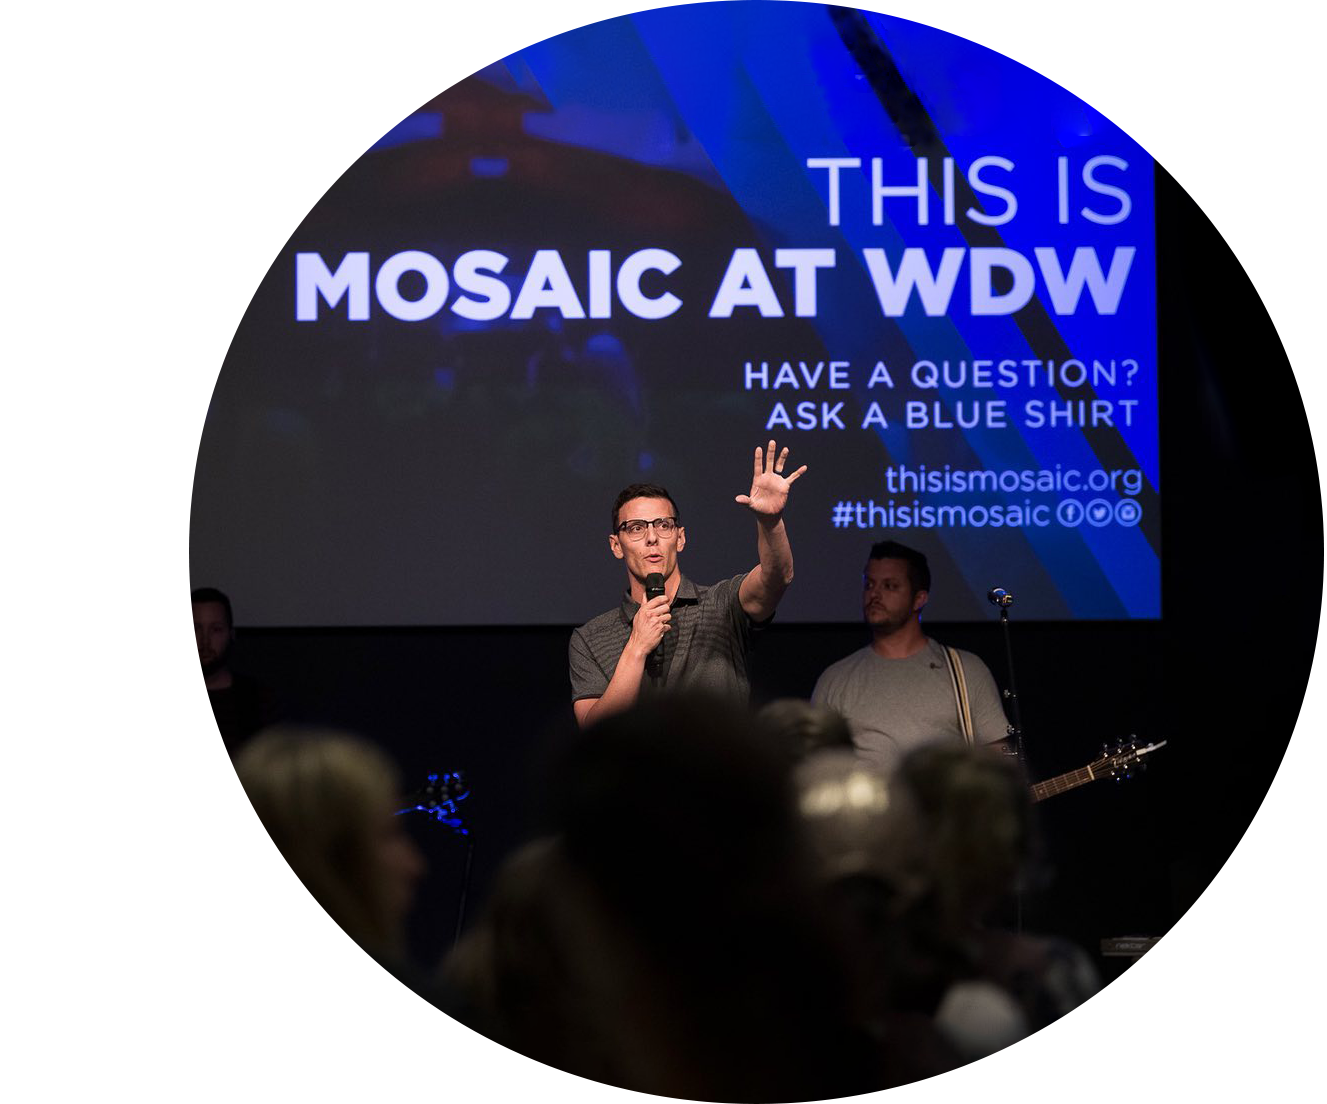
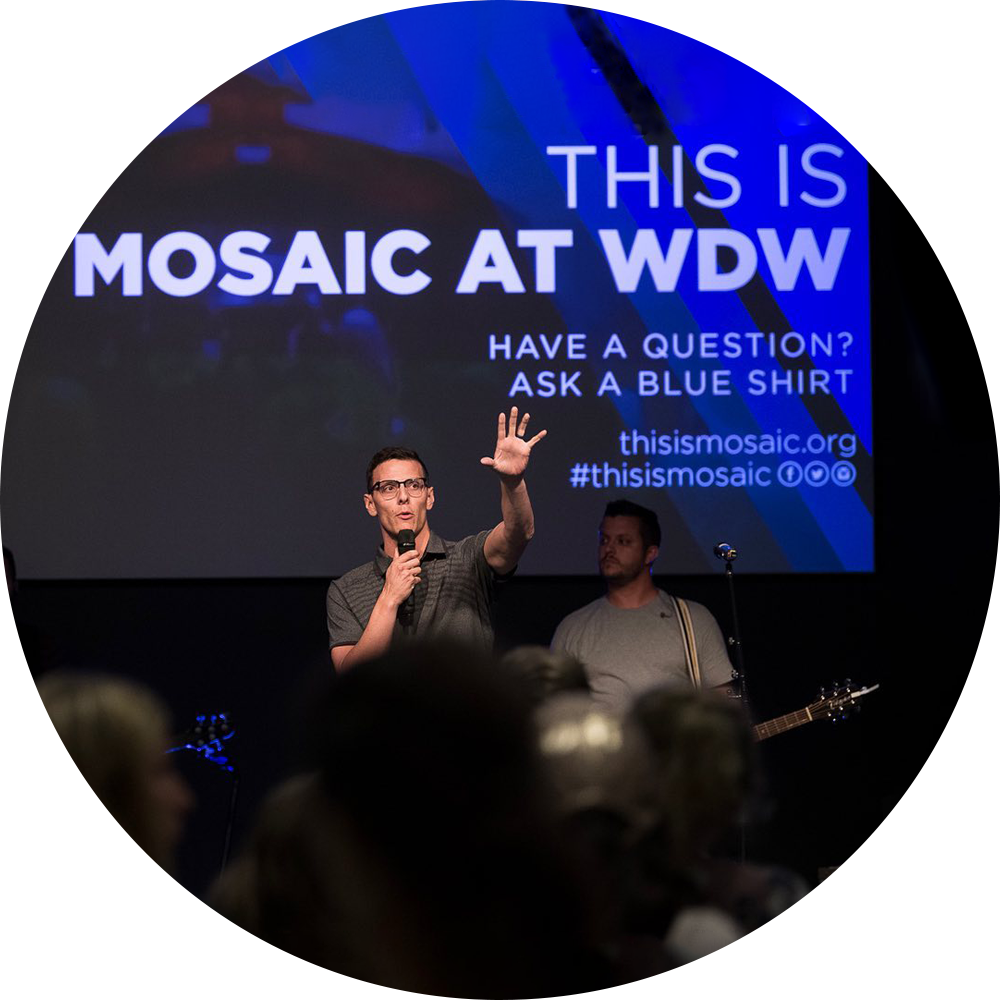
fixed alignment of circles on index and about

diff --git a/css/style.css b/css/style.css
@@ -9,14 +9,17 @@
   border: 0;
   font-family: 'GothamBook', sans-serif;
 }
+
 @font-face {
   font-family: "GothamBold";
   src: url('../font/GothamBold.ttf') format('truetype')
 }
+
 @font-face {
   font-family: "GothamBook";
   src: url('../font/GothamBook.ttf') format('truetype')
 }
+
 @font-face {
   font-family: "Capetown";
   src: url('../font/Capetown.otf') format('opentype')
@@ -38,7 +41,6 @@ nav a {
   padding: 5px;
   border-radius: 5px;
   border-top: 10px gray;
-
 }
 
 header{
@@ -46,7 +48,6 @@ header{
   background: #398298;
   padding: 25px 0;
   position:fixed;
-  text-align: center;
   margin: 0 0 0 0;
   width: 100%;
   z-index: 999;
@@ -86,8 +87,9 @@ footer{
 
 *=========================================================*/
 main {
-  padding-top: 250px;
-  margin: auto;
+  padding-top: 200px;
+  margin: auto 0;
+  max-width: 900px;
 }
 /*===============================
 
@@ -96,20 +98,23 @@ main {
 *===============================*/
 .top_main{
   position: relative;
+  max-width: 900px;
+  margin: auto 0;
 }
+
 .index_hero{
   display:block;
   margin: auto;
 }
+
 .index_copy{
   font-size: 12px;
   line-height: 14px;
   margin-top: 40px;
-  margin-left: auto;
-  margin-right: auto;
   padding: 20px;
   background: white;
-  max-width: 900px;
+  width: 700px;
+  margin: 50px 75px;
   position: absolute;
   display: block;
 }
@@ -121,32 +126,22 @@ main {
 *===============================*/
 .bottom_main{
   position: relative;
-  margin-top: 100px;
-  margin-right: auto;
-  margin-left: auto;
-}
-
-.bottom_images{
-  position:relative;
-  padding-top: 40px;
-  max-width: 90%;
-  margin: auto;
-}
-.bottom_image{
-  padding: 25px;
-  margin:auto;
-  max-width: 80%;
+  margin-top: 200px;
+  margin-left: 75px;
+  max-width: 81%;
+  text-align: center;
 }
 
 .bottom_texts{
   display: block;
-  margin-left: auto;
-  margin-right: auto;
+  max-width: 900px;
+  margin: auto 0;
   position: relative;
 }
+
 .bottom_text{
-  display: inline-block;
-  width: 275px;
+  display:inline-block;
+  width:18%;
   background: white;
   padding: 15px;
   margin: 20px;
@@ -174,35 +169,79 @@ p{
   font-size: 12px;
   line-height: 14px;
 }
+
+.bottom_images{
+  position:relative;
+  padding-top: 40px;
+  max-width: 90%;
+  margin: auto;
+}
+
+.bottom_image{
+  padding: 0 25px;
+  max-width: 21%;
+  width: 100%;
+}
 /*============================================================
 
   About Styling
 
 *=========================================================*/
+.about_main{
+  max-width: 900px;
+  margin: 0 auto;
+}
 
 .about_toptext{
   display: inline-block;
   width: 275px;
   background: white;
-  padding: 15px;
-  margin: 20px;
+  padding: 20px 20px 20px 100px;
+  position: absolute;
+  margin: 60px 0 30px -100px;
 }
 
 .about_middletext{
   display: inline-block;
   width: 275px;
   background: white;
-  padding: 15px;
-  margin: 20px;
+  padding: 20px 100px 20px 20px;
+  position: absolute;
+  margin: 60px -100px 30px 0;
+  text-align: right;
 }
 
-  .about_bottomtext{
-    display: inline-block;
-    width: 275px;
-    background: white;
-    padding: 15px;
-    margin: 20px;
+.about_bottomtext{
+  display: inline-block;
+  width: 275px;
+  background: white;
+  padding: 20px 20px 20px 100px;
+  position: absolute;
+  margin: 60px 0 30px -100px;
   }
+
+.about_image {
+position:relative;
+  padding-top: 40px;
+  max-width: 40%;
+  margin: auto;
+  padding: 0 25px;
+  width: 100%;
+  z-index: 50;
+  margin-bottom: 30px;
+}
+
+.about_middleimage{
+  padding-top: 40px;
+  max-width: 40%;
+  margin: auto;
+  padding: 0 25px;
+  width: 100%;
+  z-index: 500;
+  position:relative;
+  margin-left: 300px;
+}
+
 /*============================================================
 
   History Styling

diff --git a/about.html b/about.html
@@ -25,9 +25,9 @@
       </a>
     </header>
 
-    <main>
+    <main class="about_main">
       <div class="about_top">
-        <img src="image/sunday.png" alt="Danny Teaching" class="bottom_image" width=500/>
+        <img src="image/sunday.png" alt="Danny Teaching" class="about_image" width=500/>
         <div class="about_toptext">
           <h2> SUNDAY </h2>
           <h3> Gatherings </h2>
@@ -41,11 +41,11 @@
           <h3> Gatherings </h2>
           <p> Lorem ipsum dolor sit amet, consectetur adipisicing elit, sed do eiusmod tempor incididunt ut labore et dolore magna aliqua. Ut enim ad minim veniam, quis nostrud exercitation ullamco laboris nisi ut aliquip ex ea commodo consequat. Duis aute irure dolor in reprehenderit in voluptate velit esse cillum dolore eu fugiat nulla pariatur. Excepteur sint occaecat cupidatat non proident, sunt in culpa qui officia deserunt mollit anim id est laborum.</p>
         </div>
-        <img src="image/discipleship.png" alt="Discipleship" class="bottom_image" width=500/>
+        <img src="image/discipleship.png" alt="Discipleship" class="about_middleimage" width=500/>
       </div>
 
       <div class="about_bottom">
-        <img src="image/community.png" alt="Turkey Eve" class="bottom_image" width=500/>
+        <img src="image/community.png" alt="Turkey Eve" class="about_image" width=500/>
         <div class="about_bottomtext">
           <h2> SUNDAY </h2>
           <h3> Gatherings </h2>

diff --git a/index.html b/index.html
@@ -31,9 +31,9 @@
 
       <div class="bottom_main">
         <div class="bottom_images">
-          <img src="image/love_god.png" alt="Danny Teaching" class="bottom_image" width=300/>
-          <img src="image/uncommonlove.png" alt="Uncommon Love" class="bottom_image" width=300/>
-          <img src="image/serve.png" alt="Give Kids the World" class="bottom_image" width=300/>
+          <img src="image/love_god.png" alt="Danny Teaching" class="bottom_image" width=350/>
+          <img src="image/uncommonlove.png" alt="Uncommon Love" class="bottom_image" width=350/>
+          <img src="image/serve.png" alt="Give Kids the World" class="bottom_image" width=350/>
         </div>
 
         <div class="bottom_texts">
@@ -57,5 +57,8 @@
         </div>
       </div>
     </main>
+    <footer>
+      <p>Mosaic at WDW 10 Year Anniversary Celebration</p>
+    </footer>
   </body>
 </html>
